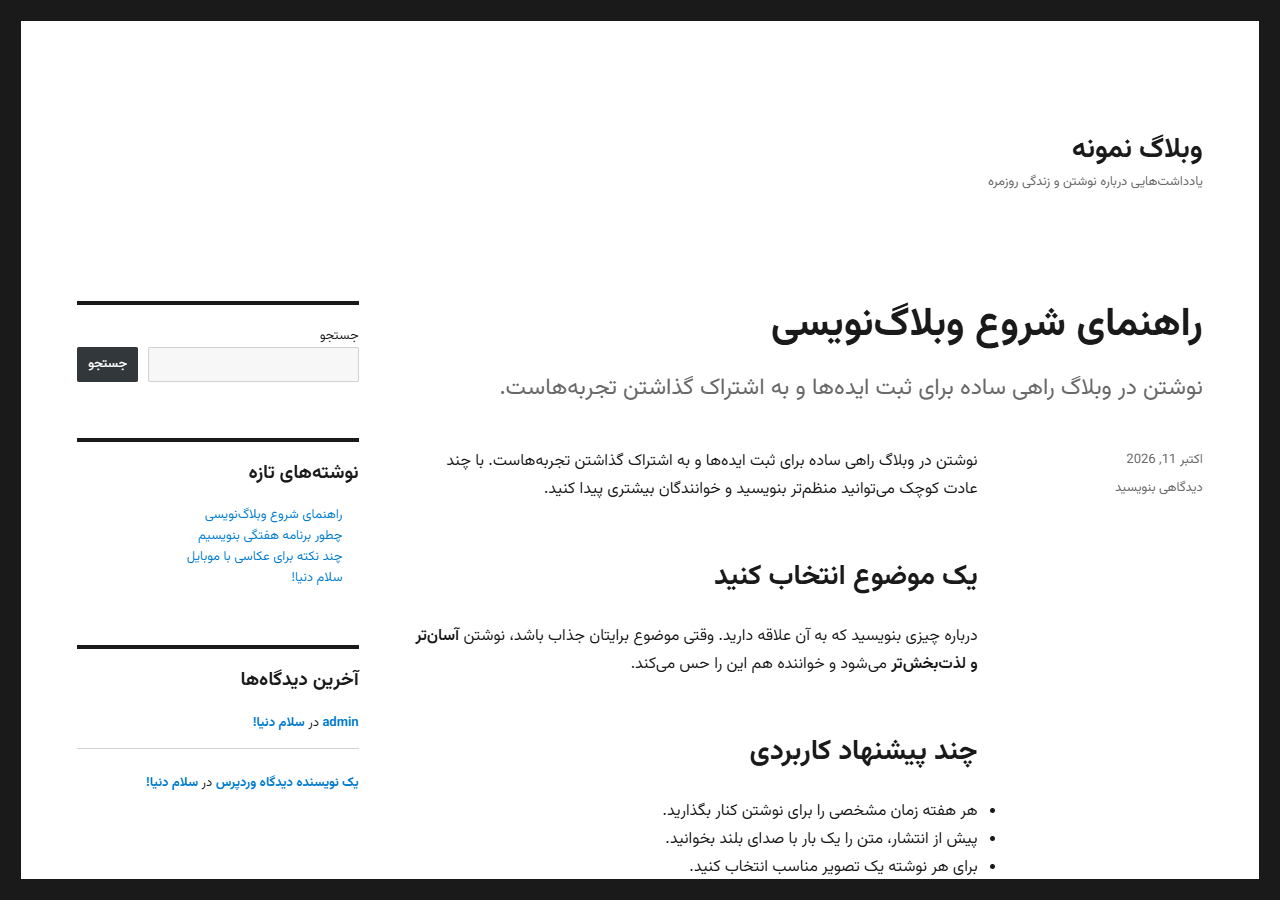
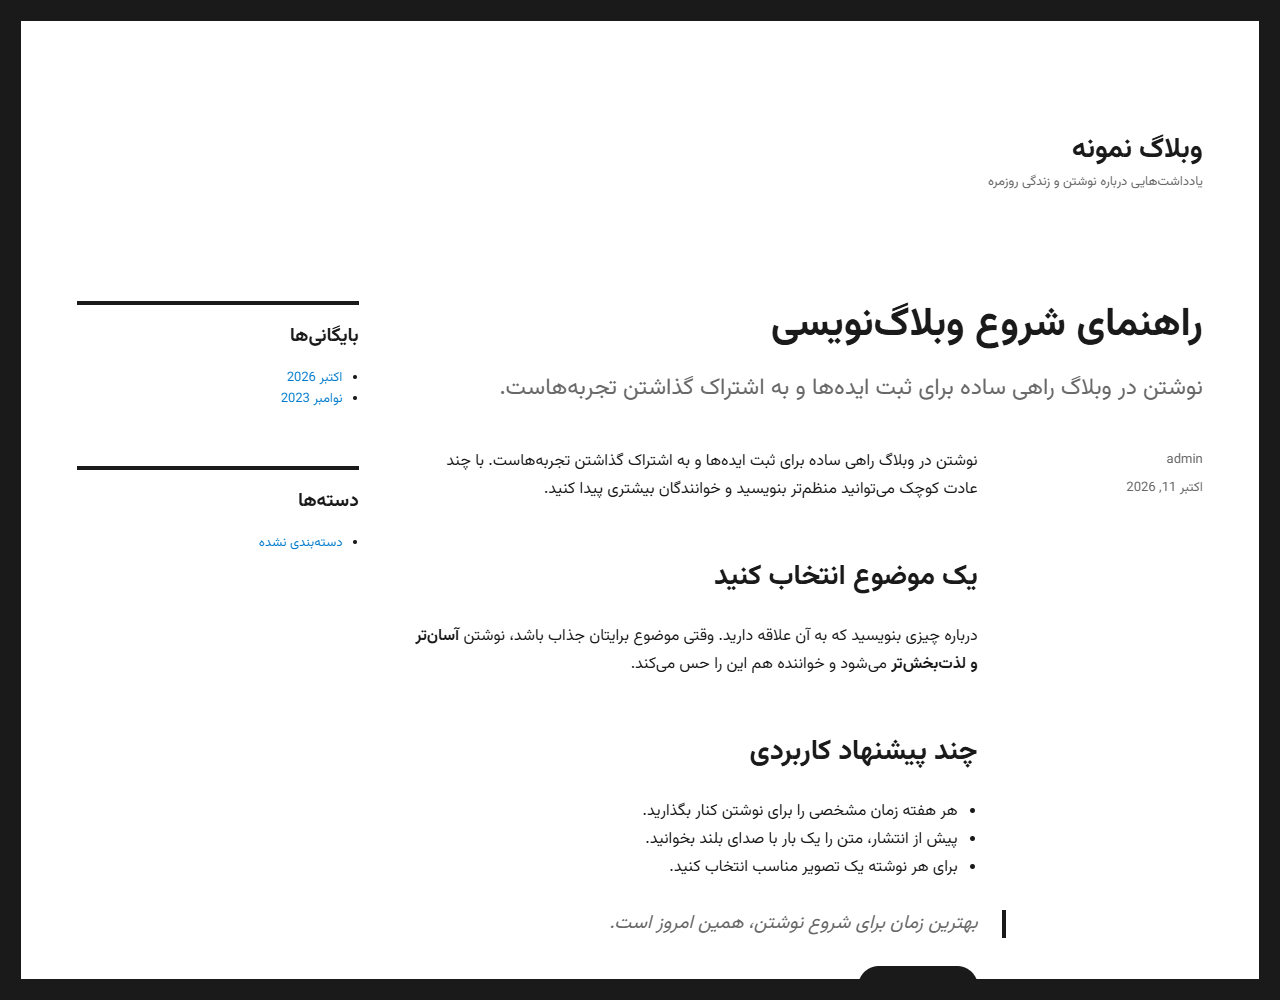
3.0.1: keep RTL list bullets inside the text column; English readme
- Theme fixes for Twenty Sixteen and Twenty Seventeen (markers hang outside
  the column by design, which breaks in RTL) and Hueman (list margin not
  mirrored).
- readme.txt English-only; the Persian listing comes from
  translate.wordpress.org.
- Screenshots 3-5 retaken with the fixes, no personal avatar.

diff --git a/src/assets/themes/twentysixteen.css b/src/assets/themes/twentysixteen.css
@@ -1,0 +1,16 @@
+/*
+ * Better RTL Support: right-to-left fixes for Twenty Sixteen. Loaded only when Twenty Sixteen is active.
+ * On wide screens the theme hangs list markers outside the text column; in RTL that looks broken, so keep them inside.
+ */
+@media screen and (min-width: 61.5625em) {
+	html:root body.rtl.theme-twentysixteen .entry-content ul,
+	html:root body.rtl.theme-twentysixteen .entry-summary ul,
+	html:root body.rtl.theme-twentysixteen .comment-content ul {
+		margin-right: 1.25em;
+	}
+	html:root body.rtl.theme-twentysixteen .entry-content ol,
+	html:root body.rtl.theme-twentysixteen .entry-summary ol,
+	html:root body.rtl.theme-twentysixteen .comment-content ol {
+		margin-right: 1.5em;
+	}
+}

diff --git a/src/assets/themes/hueman.css b/src/assets/themes/hueman.css
@@ -94,3 +94,16 @@ html:root body.rtl.theme-hueman .commentlist li li.comment-author-admin > .comme
 		right: 180px;
 	}
 }
+
+/* Hueman indents lists on the left only, so RTL bullets hang outside the text column. */
+html:root body.rtl.theme-hueman .entry ol:not(.wp-block-post-template):not(.wp-block-query-loop),
+html:root body.rtl.theme-hueman .entry ul:not(.wp-block-post-template):not(.wp-block-query-loop) {
+	margin-left: 0;
+	margin-right: 30px;
+}
+html:root body.rtl.theme-hueman .entry ol ol,
+html:root body.rtl.theme-hueman .entry ol ul,
+html:root body.rtl.theme-hueman .entry ul ul,
+html:root body.rtl.theme-hueman .entry ul ol {
+	margin-right: 30px;
+}

diff --git a/src/assets/themes/twentyseventeen.css b/src/assets/themes/twentyseventeen.css
@@ -1,0 +1,10 @@
+/*
+ * Better RTL Support: right-to-left fixes for Twenty Seventeen. Loaded only when Twenty Seventeen is active.
+ * The theme hangs list markers outside the text column; in RTL that looks broken, so keep them inside.
+ */
+html:root body.rtl.theme-twentyseventeen .entry-content ul,
+html:root body.rtl.theme-twentyseventeen .entry-content ol,
+html:root body.rtl.theme-twentyseventeen .comment-content ul,
+html:root body.rtl.theme-twentyseventeen .comment-content ol {
+	margin-right: 1.5em;
+}

diff --git a/src/better-rtl-support.php b/src/better-rtl-support.php
@@ -3,7 +3,7 @@
  * Plugin Name:       Better RTL Support
  * Plugin URI:        https://github.com/salar90/better-rtl-support
  * Description:       Make themes and plugins more readable in Persian and other RTL languages by changing fonts and tweaking styles.
- * Version:           3.0.0
+ * Version:           3.0.1
  * Requires at least: 5.3
  * Requires PHP:      7.2
  * Author:            Salar Gholizadeh
@@ -20,7 +20,7 @@ if ( ! defined( 'ABSPATH' ) ) {
 	exit; // Exit if accessed directly.
 }
 
-define( 'BRTLS_VERSION', '3.0.0' );
+define( 'BRTLS_VERSION', '3.0.1' );
 define( 'BRTLS_FILE', __FILE__ );
 
 require_once __DIR__ . '/class-better-rtl-support.php';

diff --git a/src/class-better-rtl-support.php b/src/class-better-rtl-support.php
@@ -22,7 +22,7 @@ class Better_RTL_Support {
 	/**
 	 * Templates (parent theme slugs) that have a stylesheet in assets/themes/.
 	 */
-	const THEME_FIXES = array( 'hueman' );
+	const THEME_FIXES = array( 'hueman', 'twentyseventeen', 'twentysixteen' );
 
 	/**
 	 * Constructor.

diff --git a/CLAUDE.md b/CLAUDE.md
@@ -35,8 +35,9 @@ Sibling project: `C:\Users\Salar\Dev\api-stats-project` (wp-api-stats) uses the 
     `assets/block-theme.css` (form controls inherit). WP 6.6+ returns presets keyed by origin (`fontFamilies.theme`).
   - Editor: `enqueue_block_assets` (admin only) → font + `assets/editor.css` (classic themes; block themes get theme.json).
   - Admin: `admin_enqueue_scripts` → `assets/admin.css`; also on the front for the admin bar.
-  - Theme fixes: `THEME_FIXES` lists templates with `assets/themes/<template>.css` (only `hueman`), loaded only for that
-    theme. Body class `theme-<template>` is added for them.
+  - Theme fixes: `THEME_FIXES` lists templates with `assets/themes/<template>.css` (`hueman`, `twentyseventeen`,
+    `twentysixteen`), loaded only for that theme. Twenty Sixteen/Seventeen hang list markers outside the text column by
+    design and Hueman never mirrors its list margin, so in RTL bullets stuck out on the right; the fixes keep them inside. Body class `theme-<template>` is added for them.
   - `--brtls-font-text` CSS variable is printed inline after `font-faces/Vazirmatn.css` (handle `brtls-fontface-vazirmatn`).
 - `views/settings-page.php`: Appearance → RTL Settings (`themes.php?page=rtl-settings`). Lists tested themes, says other
   themes may work too, and links to the wp.org support forum (https://wordpress.org/support/plugin/better-rtl-support/)
@@ -86,6 +87,8 @@ Sibling project: `C:\Users\Salar\Dev\api-stats-project` (wp-api-stats) uses the 
   on wordpress.test with temporary generic Persian demo posts (blogging tips; no real places or people), then removed.
   1 = Twenty Twenty-Five post, 2 = with/without comparison (same crop of both), 3 = settings page (`#wpbody-content`),
   4 = Twenty Sixteen, 5 = Hueman post. Themes print PHP notices under WP_DEBUG: strip them from the DOM before capturing.
+  Turn `show_avatars` off while capturing (the admin account's Gravatar is a real photo).
+  To check list bullets across themes, compare the first `li`'s right edge with the paragraph's right edge.
   Captions live in readme.txt `== Screenshots ==`.
 
 ## Checks (run before committing)
@@ -102,6 +105,9 @@ Sibling project: `C:\Users\Salar\Dev\api-stats-project` (wp-api-stats) uses the 
 - Bump `BRTLS_VERSION`, header `Version:` and readme `Stable tag:` together.
 
 ## Known issues / TODO
+- readme.txt is English-only on purpose: Persian comes from translate.wordpress.org (`stable-readme` and `stable`
+  projects, locale `fa`). The Persian banner on wordpress.org/plugins goes away once those are approved.
+- BeTheme (commercial, not in the tested list) has the same unmirrored list margin as Hueman.
 - 3.0.0 released 2026-10-12 (SVN r3740149, GitHub release v3.0.0); git `main` == SVN `tags/3.0.0`.
 - GitHub default branch is still `master`; switch it to `main` in repo settings, then delete `master` (and old `dev`).
 - Ideas: more theme fixes (Astra, popular Persian themes), Persian-digit Vazirmatn variant, Round-Dots variant,
